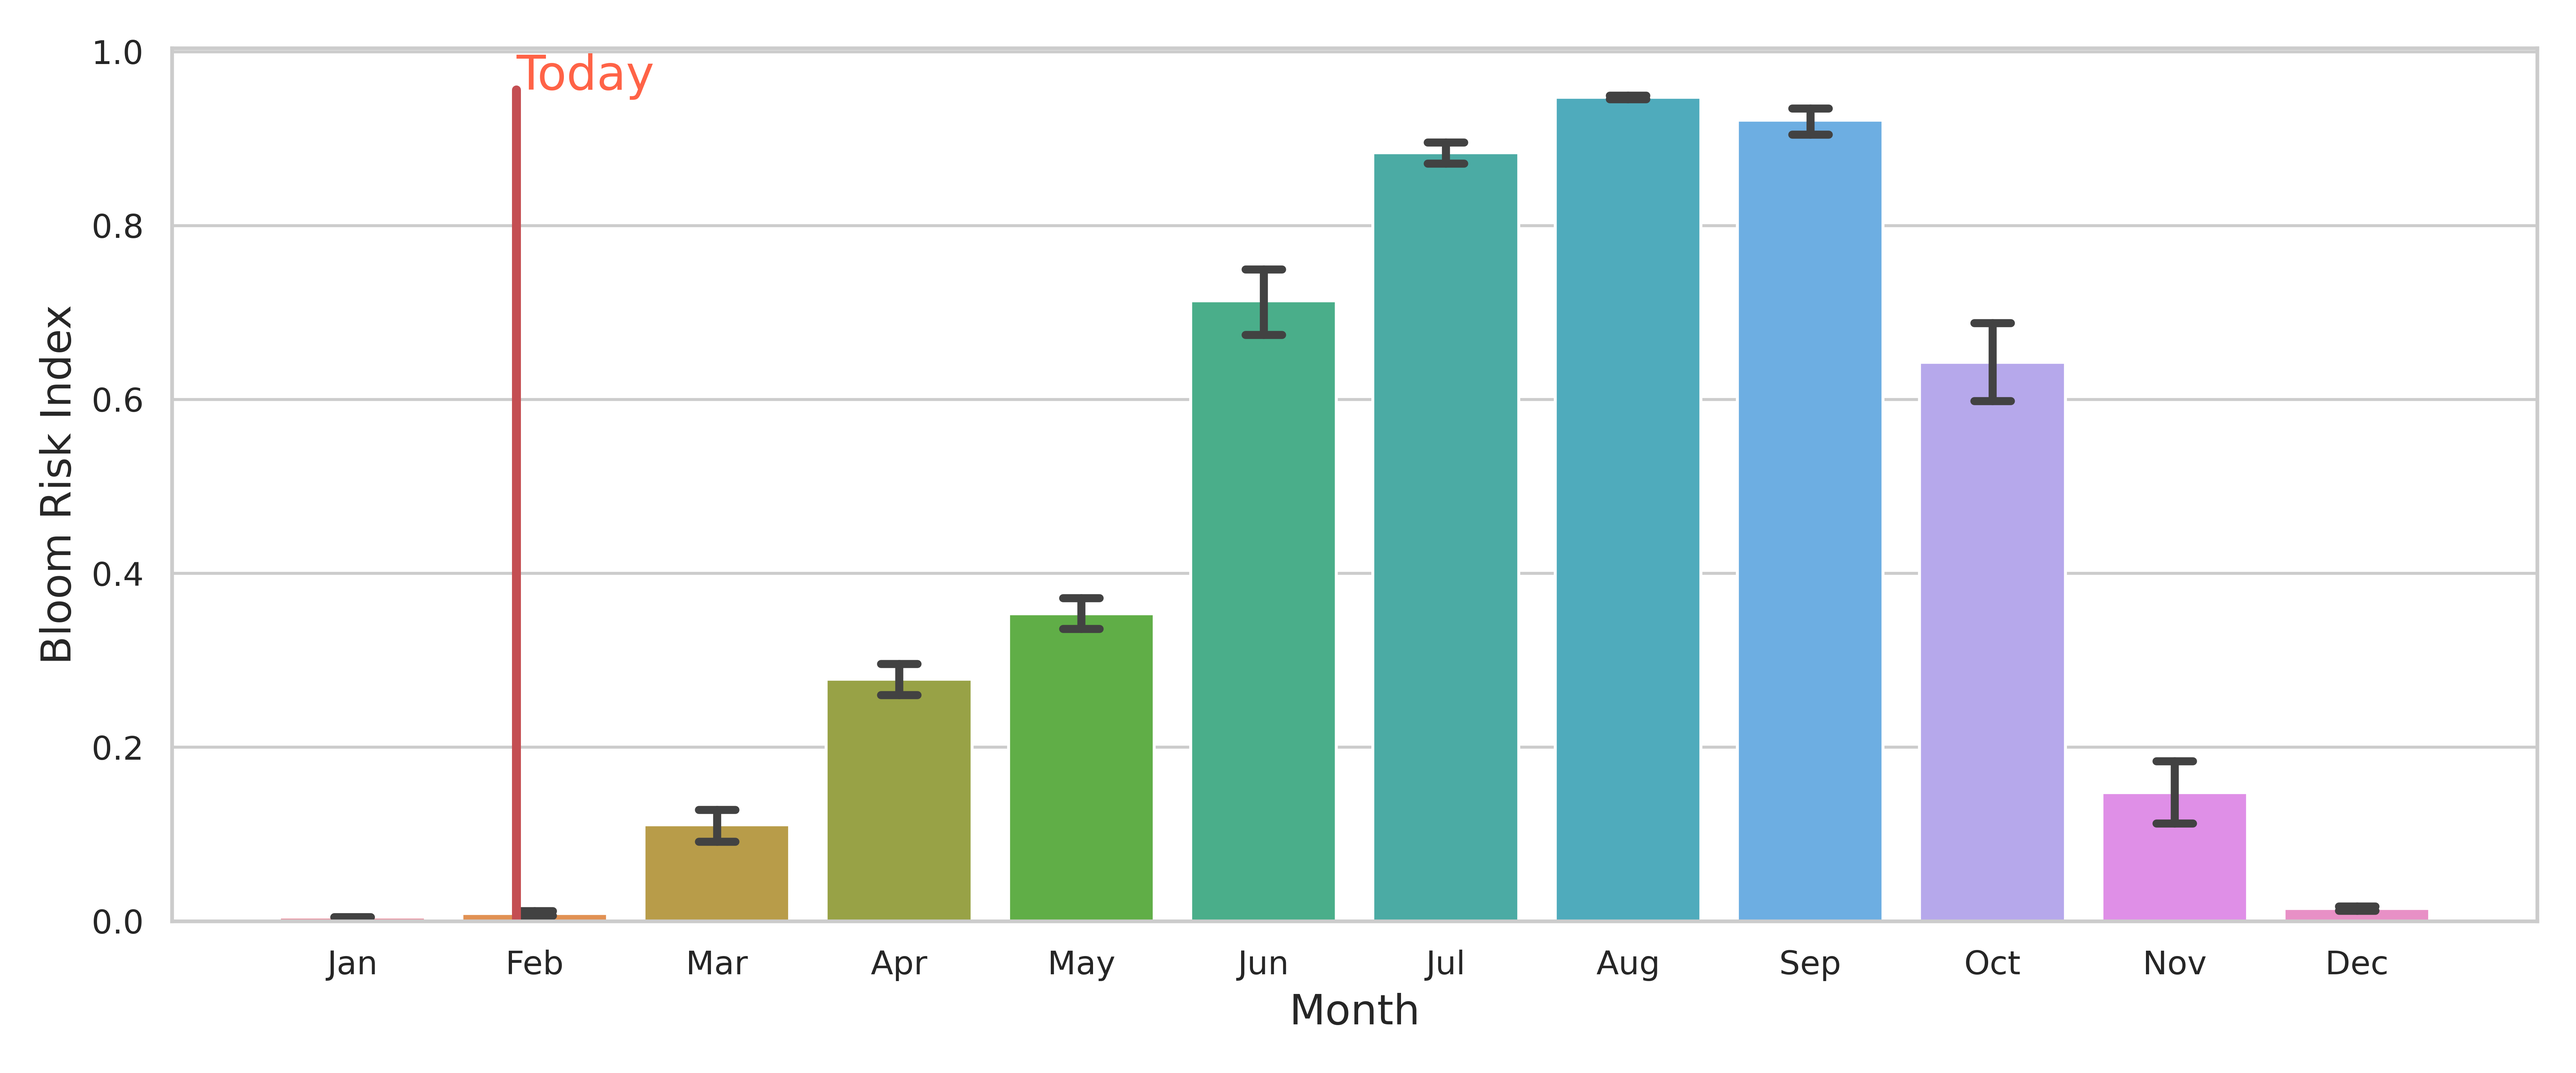
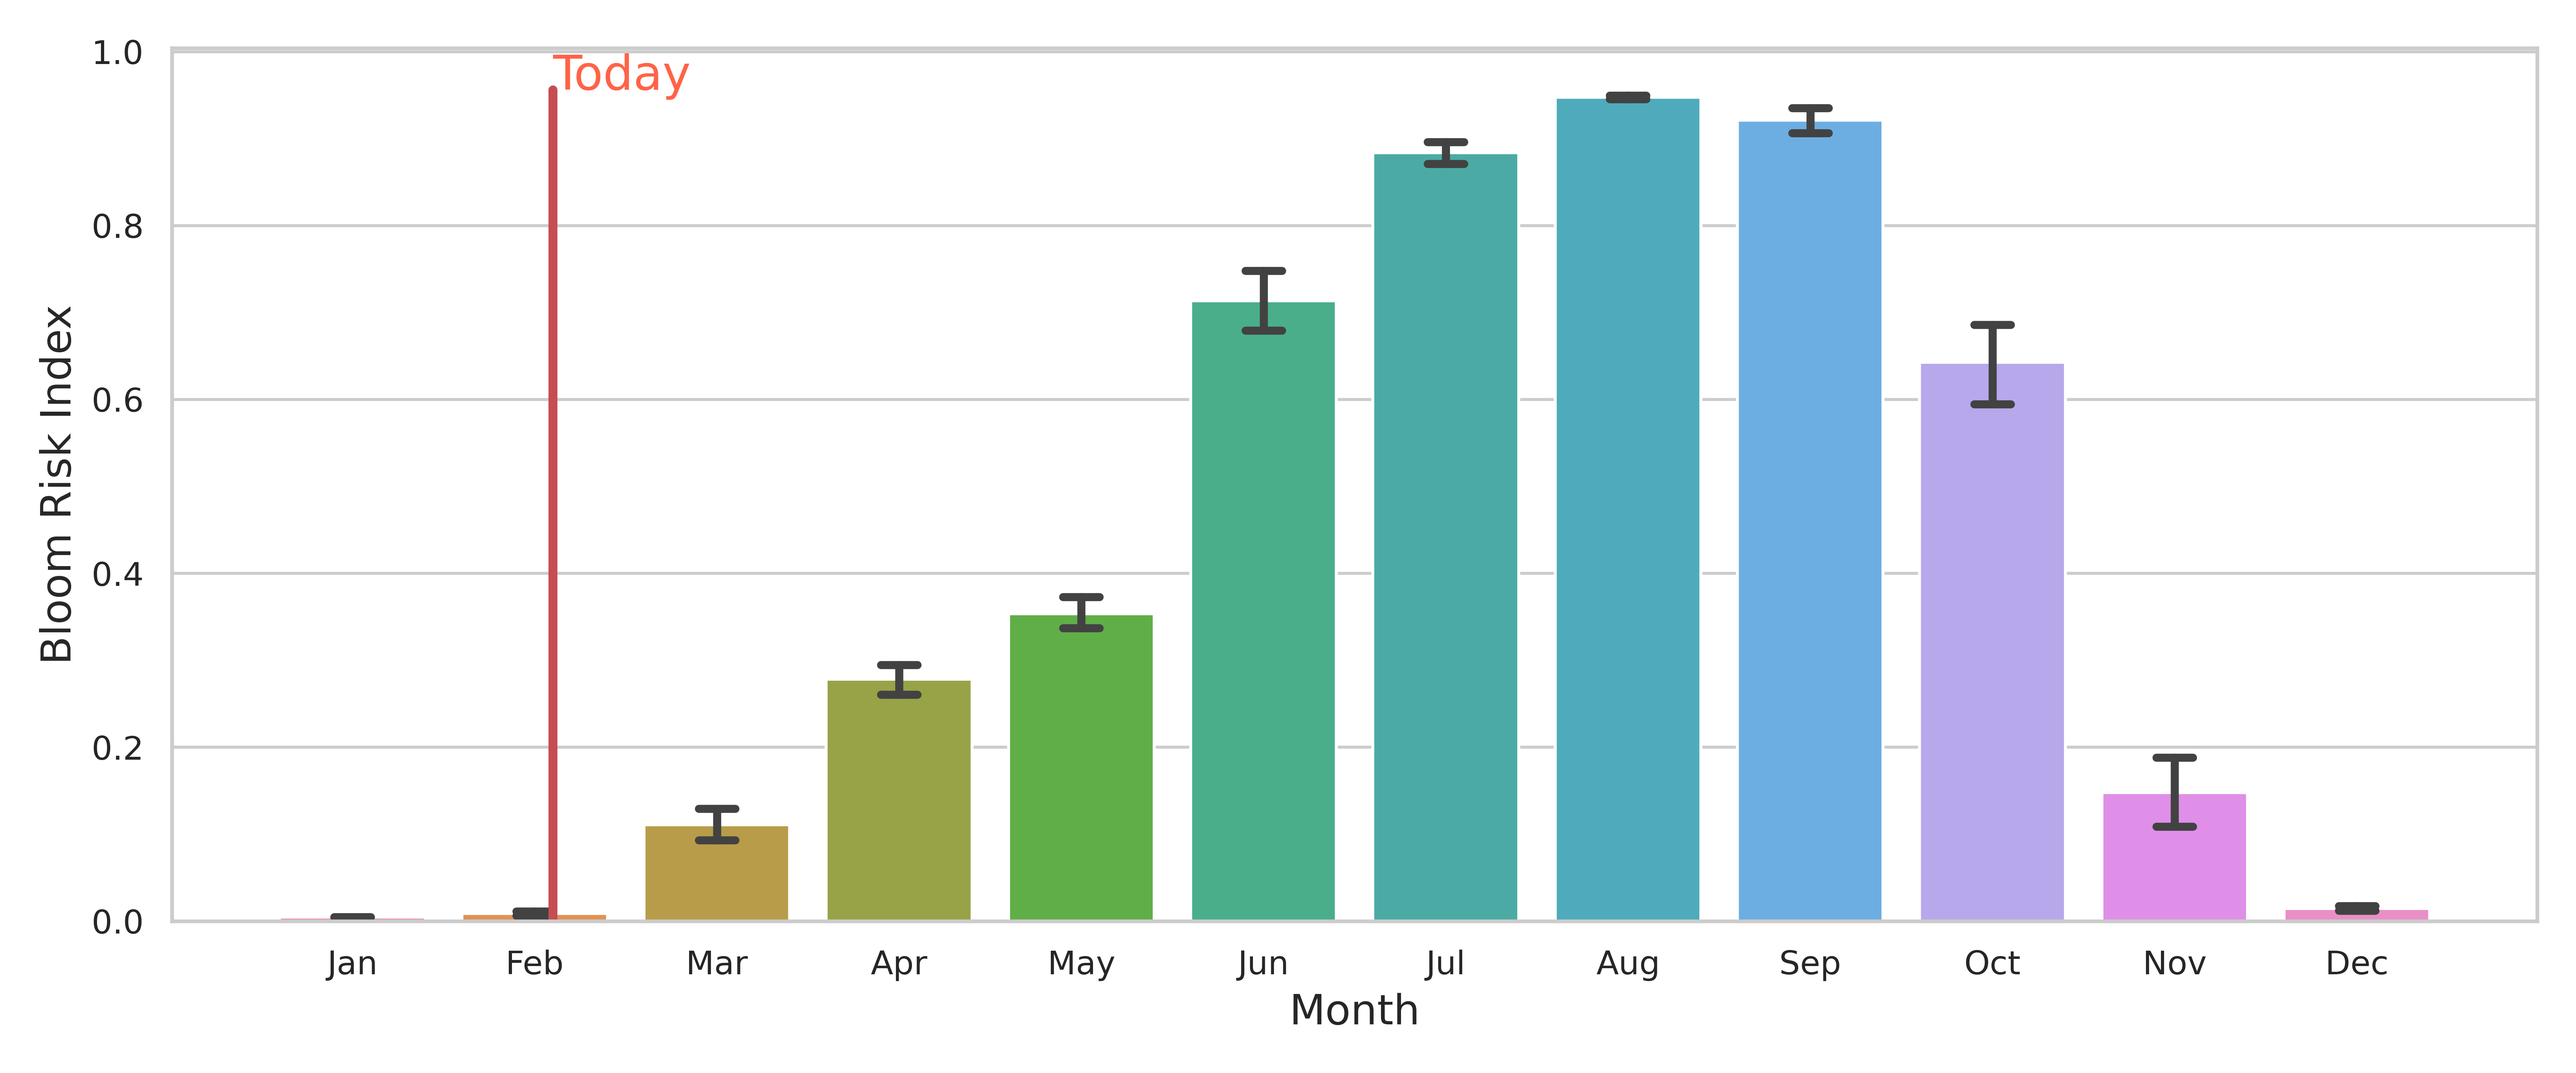
daily blog update

Changed region(s): [[0.1875, 0.031, 0.2812, 0.868]]

diff --git a/index.md b/index.md
@@ -1,5 +1,5 @@
 ---
-title: "Jan 27, 2025"
+title: "Feb 03, 2025"
 excerpt: "HAB update"
 image: /assets/images/tappan.jpg
 tags: 
@@ -11,34 +11,34 @@ Click here to see the live and interactive [Harmful Algal Bloom dashboard](https
 
 ## 7-day Look Ahead Bloom Forecast
 Below are pie charts describing the __probability of a cyanobacterial bloom__. The chart on the left describes the predictions from two weeks ago, and the one on the right describes the latest prediction, for the coming week. 
-![image-center]({{ site.url }}{{ site.baseurl }}/assets/images/20250127/Fig_prediction.png)
+![image-center]({{ site.url }}{{ site.baseurl }}/assets/images/20250203/Fig_prediction.png)
 __Probabilities of occurrence (%) of an algal bloom from two weeks ago (left) and for the next 7 days (right).__
 
 ## Hotspot Analysis - Chlorophyll-a
 This map shows you the latest estimates of __chlorophyll-a__ from the Sentinel 2a satellite. Note that the color scale is normalized to highlight the hotspots in the image. The colorscale does not provide an indication of the absolute amount of chlorophyll-a in the water and should be interpreted as an "index" of chlorophyll-a.
-![image-center]({{ site.url }}{{ site.baseurl }}/assets/images/20250127/Fig_chla.png){: .align-center}
+![image-center]({{ site.url }}{{ site.baseurl }}/assets/images/20250203/Fig_chla.png){: .align-center}
 <br clear="all" />
 __Latest chlorophyll-a map from the Sentinel 2a satelllite.__
 
 ## Hotspot Analysis - CyAN
 This map shows you the latest estimates of the concentration of cyanobacteria (cells/ml) from the EPA CyAN program.
-![image-center]({{ site.url }}{{ site.baseurl }}/assets/images/20250127/Fig_cyan.png){: .align-center}
+![image-center]({{ site.url }}{{ site.baseurl }}/assets/images/20250203/Fig_cyan.png){: .align-center}
 <br clear="all" />
 __Latest CyAN map from the EPA.__
 
 ## Where we are in the season
 This plot shows the __historical expectation for HAB risk__ over the year. Use this chart to see where we are in the season (identified by the vertical red line). 
-![image-center]({{ site.url }}{{ site.baseurl }}/assets/images/20250127/Fig_climatology.png){: .     align-center}
+![image-center]({{ site.url }}{{ site.baseurl }}/assets/images/20250203/Fig_climatology.png){: .     align-center}
 __Harmful algal bloom risk over the year__.
 
 ## How rainy has it been? 
 We know that in general certain weather conditions promote the likelihood of HABs. Check this chart to see 
 how __wet__ it is, relative to past years. This is simply adding up each day's rainfall, for each year. If the red line is below the orange line, then this year is dryer than average.
-![image-center]({{ site.url }}{{ site.baseurl }}/assets/images/20250127/Fig_precip_cumsum.png){: .     align-center}
+![image-center]({{ site.url }}{{ site.baseurl }}/assets/images/20250203/Fig_precip_cumsum.png){: .     align-center}
 __Precipitation at the lake compared to previous years__.
 
 ## How hot has it been? 
 We know that in general certain weather conditions promote the likelihood of HABs. Check this chart to see 
 how __hot__ it is, relative to past years. This is simply adding up each day's temperature, for each year. If the red line is above the orange line, this year is hotter than average.
-![image-center]({{ site.url }}{{ site.baseurl }}/assets/images/20250127/Fig_temp_cumsum.png){: .     align-center}
+![image-center]({{ site.url }}{{ site.baseurl }}/assets/images/20250203/Fig_temp_cumsum.png){: .     align-center}
 __Air temperature at the lake compared to previous years__.

diff --git a/_posts/2025-02-03-blog058.md b/_posts/2025-02-03-blog058.md
@@ -1,0 +1,44 @@
+---
+title: "Feb 03, 2025"
+excerpt: "HAB update"
+image: /assets/images/tappan.jpg
+tags: 
+  - hab
+  - prediction
+---
+
+Click here to see the live and interactive [Harmful Algal Bloom dashboard](https://tappan.clrwater.io/).
+
+## 7-day Look Ahead Bloom Forecast
+Below are pie charts describing the __probability of a cyanobacterial bloom__. The chart on the left describes the predictions from two weeks ago, and the one on the right describes the latest prediction, for the coming week. 
+![image-center]({{ site.url }}{{ site.baseurl }}/assets/images/20250203/Fig_prediction.png)
+__Probabilities of occurrence (%) of an algal bloom from two weeks ago (left) and for the next 7 days (right).__
+
+## Hotspot Analysis - Chlorophyll-a
+This map shows you the latest estimates of __chlorophyll-a__ from the Sentinel 2a satellite. Note that the color scale is normalized to highlight the hotspots in the image. The colorscale does not provide an indication of the absolute amount of chlorophyll-a in the water and should be interpreted as an "index" of chlorophyll-a.
+![image-center]({{ site.url }}{{ site.baseurl }}/assets/images/20250203/Fig_chla.png){: .align-center}
+<br clear="all" />
+__Latest chlorophyll-a map from the Sentinel 2a satelllite.__
+
+## Hotspot Analysis - CyAN
+This map shows you the latest estimates of the concentration of cyanobacteria (cells/ml) from the EPA CyAN program.
+![image-center]({{ site.url }}{{ site.baseurl }}/assets/images/20250203/Fig_cyan.png){: .align-center}
+<br clear="all" />
+__Latest CyAN map from the EPA.__
+
+## Where we are in the season
+This plot shows the __historical expectation for HAB risk__ over the year. Use this chart to see where we are in the season (identified by the vertical red line). 
+![image-center]({{ site.url }}{{ site.baseurl }}/assets/images/20250203/Fig_climatology.png){: .     align-center}
+__Harmful algal bloom risk over the year__.
+
+## How rainy has it been? 
+We know that in general certain weather conditions promote the likelihood of HABs. Check this chart to see 
+how __wet__ it is, relative to past years. This is simply adding up each day's rainfall, for each year. If the red line is below the orange line, then this year is dryer than average.
+![image-center]({{ site.url }}{{ site.baseurl }}/assets/images/20250203/Fig_precip_cumsum.png){: .     align-center}
+__Precipitation at the lake compared to previous years__.
+
+## How hot has it been? 
+We know that in general certain weather conditions promote the likelihood of HABs. Check this chart to see 
+how __hot__ it is, relative to past years. This is simply adding up each day's temperature, for each year. If the red line is above the orange line, this year is hotter than average.
+![image-center]({{ site.url }}{{ site.baseurl }}/assets/images/20250203/Fig_temp_cumsum.png){: .     align-center}
+__Air temperature at the lake compared to previous years__.
